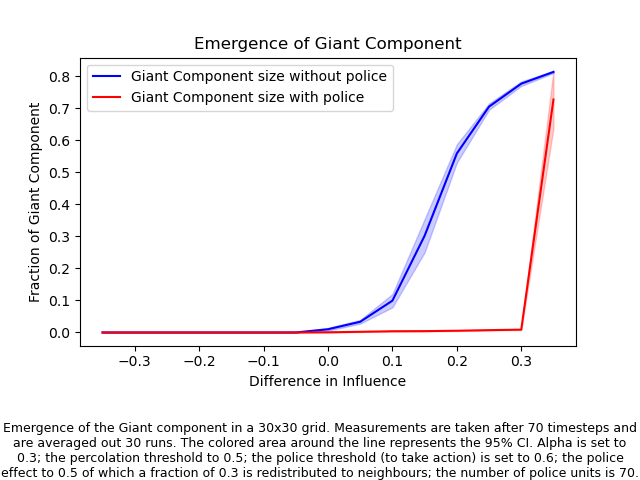
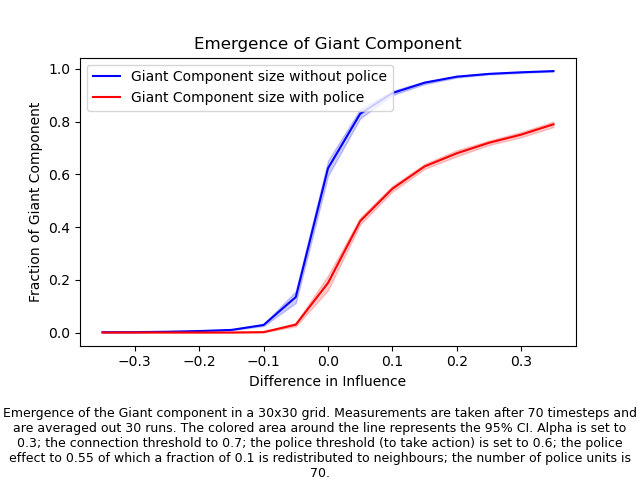
final emergence plots

diff --git a/modules/emergence.py b/modules/emergence.py
@@ -6,7 +6,7 @@ from modules.grid_update import update_grid_nopolice, update_grid_withpolice, gi
 
 
 def simulate_emergence(grid_size=(30, 30), timesteps=70, alpha=0.3, 
-                       percolation_threshold=0.5, police_threshold=0.7, police_effect=0.3, 
+                       connection_threshold=0.5, police_threshold=0.7, police_effect=0.3, 
                        redistribution_frac=0.7, police_units=15, num_simulation=30, title='Emergence', police=True, onlypolice=False, savefig=True): # Function to plot emergence of giant component for different influence differences
     
     beta = 1 - alpha
@@ -25,7 +25,7 @@ def simulate_emergence(grid_size=(30, 30), timesteps=70, alpha=0.3,
                 income = np.random.rand(*grid_size) # Reset the income grid
                 for _ in range(timesteps): # Run the simulation for a long enough time
                     criminality = update_grid_nopolice(criminality, education, income, influence_diff, alpha, beta)
-                giant_fractions.append(giant_component(criminality, percolation_threshold)) # Get the size of the giant component
+                giant_fractions.append(giant_component(criminality, connection_threshold)) # Get the size of the giant component
             all_giant_fractions.append(giant_fractions) # Store the giant component sizes for every influence difference value
 
         all_giant_fractions = np.array(all_giant_fractions)
@@ -52,7 +52,7 @@ def simulate_emergence(grid_size=(30, 30), timesteps=70, alpha=0.3,
                 income = np.random.rand(*grid_size) # Reset the income grid
                 for _ in range(timesteps): # Run the simulation for a long enough time
                     criminality = update_grid_withpolice(criminality, education, income, influence_diff, police_threshold, police_effect, redistribution_frac, police_units, grid_size, alpha, beta)[0]
-                giant_fractions.append(giant_component(criminality, percolation_threshold)) # Get the size of the giant component
+                giant_fractions.append(giant_component(criminality, connection_threshold)) # Get the size of the giant component
             all_giant_fractions.append(giant_fractions) # Store the giant component sizes for every influence difference value
 
         all_giant_fractions = np.array(all_giant_fractions)
@@ -73,10 +73,10 @@ def simulate_emergence(grid_size=(30, 30), timesteps=70, alpha=0.3,
     plt.subplots_adjust(bottom=0.28)
 
     if police:
-        plt.figtext(0.5, 0.01, f'Emergence of the Giant component in a {grid_size[0]}x{grid_size[1]} grid. Measurements are taken after {timesteps} timesteps and are averaged out {num_simulation} runs. The colored area around the line represents the 95% CI. Alpha is set to {alpha}; the percolation threshold to {percolation_threshold}; the police threshold (to take action) is set to {police_threshold}; the police effect to {police_effect} of which a fraction of {redistribution_frac} is redistributed to neighbours; the number of police units is {police_units}.',
+        plt.figtext(0.5, 0.01, f'Emergence of the Giant component in a {grid_size[0]}x{grid_size[1]} grid. Measurements are taken after {timesteps} timesteps and are averaged out {num_simulation} runs. The colored area around the line represents the 95% CI. Alpha is set to {alpha}; the connection threshold to {connection_threshold}; the police threshold (to take action) is set to {police_threshold}; the police effect to {police_effect} of which a fraction of {redistribution_frac} is redistributed to neighbours; the number of police units is {police_units}.',
                     wrap=True, horizontalalignment='center', fontsize=9)
     else:
-        plt.figtext(0.5, 0.01, f'Emergence of the Giant component in a {grid_size[0]}x{grid_size[1]} grid. Measurements are taken after {timesteps} timesteps and are averaged out {num_simulation} runs. The colored area around the line represents the 95% CI. Alpha is set to {alpha}; the percolation threshold to {percolation_threshold}. No police intervention is considered.',
+        plt.figtext(0.5, 0.01, f'Emergence of the Giant component in a {grid_size[0]}x{grid_size[1]} grid. Measurements are taken after {timesteps} timesteps and are averaged out {num_simulation} runs. The colored area around the line represents the 95% CI. Alpha is set to {alpha}; the connection threshold to {connection_threshold}. No police intervention is considered.',
                     wrap=True, horizontalalignment='center', fontsize=9)
                 
     plt.legend()

diff --git a/emergence_different_police_amounts.py b/emergence_different_police_amounts.py
@@ -12,11 +12,11 @@ all_err_withp = []
 alpha = 0.3
 beta = 1 - alpha
 timesteps = 70
-percolation_threshold = 0.5
-police_threshold = 0.7
-police_effect = 0.3 
-redistribution_frac = 0.7
-police_units = [30, 100, 200, 300]
+connection_threshold = 0.7
+police_threshold = 0.6
+police_effect = 0.55
+redistribution_frac = 0.1
+police_units = [70, 200, 400, 600]
 side_size = [30, 50, 70, 90]
 num_simulation = 30
 influence_diff_list = np.linspace(-beta / 2, beta / 2, 15)
@@ -26,7 +26,7 @@ for ind, units in enumerate(police_units):
     onlypolice = False if ind == 0 else True
 
     avg_nop, avg_withp, err_nop, err_withp = simulate_emergence(grid_size=(side_size[ind], side_size[ind]), timesteps=timesteps, alpha=alpha, 
-                       percolation_threshold=percolation_threshold, police_threshold=police_threshold, police_effect=police_effect, 
+                       connection_threshold=connection_threshold, police_threshold=police_threshold, police_effect=police_effect, 
                        redistribution_frac=redistribution_frac, police_units=units, num_simulation=num_simulation, title=f'Emergence_grid_units_{units}', police=True, onlypolice=onlypolice, savefig=False)
     
     if ind == 0:
@@ -50,10 +50,10 @@ for ind in range(len(police_units)):
 
 plt.xlabel('Difference in Influence')
 plt.ylabel('Fraction of Giant Component')
-plt.title('Data Collapse for Different Amounts of Police Units')
+plt.title('Joint Plot for Different Amounts of Police Units')
 plt.legend(handles, labels)
 plt.subplots_adjust(bottom=0.28)
-plt.figtext(0.5, 0.01, f'Emergence of the Giant component in a {side_size[0]}x{side_size[0]} grid (for the blue line). The cases with police are simulated on grids with side lentgh of {police_units} (red lines). Measurements are taken after {timesteps} timesteps and are averaged out {num_simulation} runs. The colored area around the line represents the 95% CI. Alpha is set to {alpha}; the percolation threshold to {percolation_threshold}; the police threshold (to take action) is set to {police_threshold}; the police effect to {police_effect} of which a fraction of {redistribution_frac} is redistributed to neighbours; the number of police units is {police_units}.',
+plt.figtext(0.5, 0.01, f'Emergence of the Giant component in a {side_size[0]}x{side_size[0]} grid (for the blue line). The cases with police are simulated on grids with side lentgh of {police_units} (red lines). Measurements are taken after {timesteps} timesteps and are averaged out {num_simulation} runs. The colored area around the line represents the 95% CI. Alpha is set to {alpha}; the connection threshold to {connection_threshold}; the police threshold (to take action) is set to {police_threshold}; the police effect to {police_effect} of which a fraction of {redistribution_frac} is redistributed to neighbours; the number of police units is {police_units}.',
             wrap=True, horizontalalignment='center', fontsize=9)
 plt.savefig('figs/different_police_amounts_emergence.png')
 plt.show()

diff --git a/emergence_different_grid_sizes.py b/emergence_different_grid_sizes.py
@@ -14,10 +14,10 @@ side_size = [30, 50, 70, 90]
 alpha = 0.3
 beta = 1 - alpha
 timesteps = 70
-percolation_threshold = 0.5
+connection_threshold = 0.7
 police_threshold = 0.6
-police_effect = 0.5
-redistribution_frac = 0.3
+police_effect = 0.55
+redistribution_frac = 0.1
 police_units = 70
 num_simulation = 30
 influence_diff_list = np.linspace(-beta / 2, beta / 2, 15)
@@ -25,7 +25,7 @@ influence_diff_list = np.linspace(-beta / 2, beta / 2, 15)
 for L in side_size: # Plot the emergence curve for different grids of size LxL
 
     avg_nop, avg_withp, err_nop, err_withp = simulate_emergence(grid_size=(L, L), timesteps=timesteps, alpha=alpha, 
-                       percolation_threshold=percolation_threshold, police_threshold=police_threshold, police_effect=police_effect, 
+                       connection_threshold=connection_threshold, police_threshold=police_threshold, police_effect=police_effect, 
                        redistribution_frac=redistribution_frac, police_units=police_units, num_simulation=num_simulation, title=f'Emergence_grid_{L}')
     
     all_y_nop.append(avg_nop)
@@ -47,10 +47,10 @@ for ind in range(len(side_size)):
 
 plt.xlabel('Difference in Influence')
 plt.ylabel('Fraction of Giant Component')
-plt.title('Data Collapse for Different Grid Sizes')
+plt.title('Joint Plot for Different Grid Sizes')
 plt.legend(handles, labels)
 plt.subplots_adjust(bottom=0.28)
-plt.figtext(0.5, 0.01, f'Emergence of the Giant component in different size grids (for reference, the side of each grid is {side_size} going from right to left, for both colors). Measurements are taken after {timesteps} timesteps and are averaged out {num_simulation} runs. The colored area around the line represents the 95% CI. Alpha is set to {alpha}; the percolation threshold to {percolation_threshold}; the police threshold (to take action) is set to {police_threshold}; the police effect to {police_effect} of which a fraction of {redistribution_frac} is redistributed to neighbours; the number of police units is {police_units}.',
+plt.figtext(0.5, 0.01, f'Emergence of the Giant component in different size grids (for reference, the side of each grid is {side_size} going from right to left, for both colors). Measurements are taken after {timesteps} timesteps and are averaged out {num_simulation} runs. The colored area around the line represents the 95% CI. Alpha is set to {alpha}; the connection threshold to {connection_threshold}; the police threshold (to take action) is set to {police_threshold}; the police effect to {police_effect} of which a fraction of {redistribution_frac} is redistributed to neighbours; the number of police units is {police_units}.',
                             wrap=True, horizontalalignment='center', fontsize=9)
 plt.savefig('figs/different_grid_size_emergence.png')
 plt.show()

diff --git a/emergence_different_connection_threshold.py b/emergence_different_connection_threshold.py
@@ -1,0 +1,49 @@
+import numpy as np
+import matplotlib.pyplot as plt
+
+from modules.emergence import simulate_emergence
+
+# For robustness, we analyze the emergence of the giant component for different connection thresholds
+
+# Define parameters common to every grid size and a list of sizes
+all_y_nop = []
+all_err_nop = []
+grid_size = (50, 50)
+alpha = 0.3
+beta = 1 - alpha
+timesteps = 200
+connection_threshold_list = [0.3, 0.5, 0.7, 0.9]
+police_threshold = 0.6
+police_effect = 0.5
+redistribution_frac = 0.3
+police_units = 70
+num_simulation = 30
+influence_diff_list = np.linspace(-beta / 2, beta / 2, 15)
+police = False
+save_fig = False
+onlypolice = False
+
+for connection_threshold in connection_threshold_list: # Plot the emergence curve for different grids of size LxL
+
+    avg_nop, avg_withp, err_nop, err_withp = simulate_emergence(grid_size=grid_size, timesteps=timesteps, alpha=alpha, 
+                       connection_threshold=connection_threshold, police_threshold=police_threshold, police_effect=police_effect, 
+                       redistribution_frac=redistribution_frac, police_units=police_units, num_simulation=num_simulation, title=f'Emergence_perc_thr_{connection_threshold}', police=police, onlypolice=onlypolice, savefig=save_fig)
+    
+    all_y_nop.append(avg_nop)
+    all_err_nop.append(err_nop)
+
+colors = ['b', 'g', 'r', 'c']
+
+for ind, thr in enumerate(connection_threshold_list): 
+    plt.plot(influence_diff_list, all_y_nop[ind], label=f'Connect. thr. = {thr}', color=colors[ind])
+    plt.fill_between(influence_diff_list, all_y_nop[ind] - all_err_nop[ind], all_y_nop[ind] + all_err_nop[ind], color=colors[ind], alpha = 0.2)
+
+plt.xlabel('Difference in Influence')
+plt.ylabel('Fraction of Giant Component')
+plt.title('Emergence of Giant Component for Different Connection Thresholds')
+plt.legend()
+plt.subplots_adjust(bottom=0.28)
+plt.figtext(0.5, 0.01, f'Emergence of the Giant component in a {grid_size[0]}x{grid_size[1]} grid. Measurements are taken after {timesteps} timesteps and are averaged out {num_simulation} runs. The colored area around the line represents the 95% CI. Alpha is set to {alpha}; the police threshold (to take action) is set to {police_threshold}; the police effect to {police_effect} of which a fraction of {redistribution_frac} is redistributed to neighbours; the number of police units is {police_units}.',
+            wrap=True, horizontalalignment='center', fontsize=9)
+plt.savefig('figs/different_connection_thr.png')
+plt.show()

diff --git a/emergence_different_alpha.py b/emergence_different_alpha.py
@@ -1,0 +1,48 @@
+import numpy as np
+import matplotlib.pyplot as plt
+
+from modules.emergence import simulate_emergence
+
+# For robustness, we analyze the emergence of the giant component for different connection thresholds
+
+# Define parameters common to every grid size and a list of sizes
+all_y_nop = []
+all_err_nop = []
+grid_size = (50, 50)
+alpha_list = [0.1, 0.3, 0.5, 0.7, 0.9]
+timesteps = 200
+connection_threshold = 0.7
+police_threshold = 0.6
+police_effect = 0.5
+redistribution_frac = 0.3
+police_units = 70
+num_simulation = 30
+influence_diff_list = np.linspace(-((1 - min(alpha_list))) / 2, (1 - min(alpha_list)) / 2, 15)
+police = False
+save_fig = False
+onlypolice = False
+
+for alpha in alpha_list: # Plot the emergence curve for different grids of size LxL
+
+    avg_nop, avg_withp, err_nop, err_withp = simulate_emergence(grid_size=grid_size, timesteps=timesteps, alpha=alpha, 
+                       connection_threshold=connection_threshold, police_threshold=police_threshold, police_effect=police_effect, 
+                       redistribution_frac=redistribution_frac, police_units=police_units, num_simulation=num_simulation, title=f'Emergence_perc_thr_{connection_threshold}', police=police, onlypolice=onlypolice, savefig=save_fig)
+    
+    all_y_nop.append(avg_nop)
+    all_err_nop.append(err_nop)
+
+colors = ['b', 'g', 'r', 'c', 'm']
+
+for ind, thr in enumerate(alpha_list): 
+    plt.plot(influence_diff_list, all_y_nop[ind], label=f'Alpha = {thr}', color=colors[ind])
+    plt.fill_between(influence_diff_list, all_y_nop[ind] - all_err_nop[ind], all_y_nop[ind] + all_err_nop[ind], color=colors[ind], alpha = 0.2)
+
+plt.xlabel('Difference in Influence')
+plt.ylabel('Fraction of Giant Component')
+plt.title('Emergence of Giant Component for Different Alpha')
+plt.legend()
+plt.subplots_adjust(bottom=0.28)
+plt.figtext(0.5, 0.01, f'Emergence of the Giant component in a {grid_size[0]}x{grid_size[1]} grid. Measurements are taken after {timesteps} timesteps and are averaged out {num_simulation} runs. The colored area around the line represents the 95% CI. The connection threshold to {connection_threshold}; the police threshold (to take action) is set to {police_threshold}; the police effect to {police_effect} of which a fraction of {redistribution_frac} is redistributed to neighbours; the number of police units is {police_units}.',
+                            wrap=True, horizontalalignment='center', fontsize=9)
+plt.savefig('figs/different_alpha.png')
+plt.show()

diff --git a/modules/grid_update.py b/modules/grid_update.py
@@ -13,7 +13,7 @@ def update_grid_nopolice(criminality, education, income, influence_diff, alpha, 
     
     current = criminality[..., np.newaxis]
     
-    more_mask = neighbors > current
+    more_mask = neighbors >= current
     less_mask = neighbors <= current
     sum_more = np.nansum(neighbors * more_mask, axis=2)
     count_more = np.nansum(more_mask, axis=2)
@@ -23,10 +23,21 @@ def update_grid_nopolice(criminality, education, income, influence_diff, alpha, 
     less_infl = np.divide(sum_less, count_less, out=np.zeros_like(sum_less), where=count_less!=0)
     # calculate gamma for each cell avr of income and education
     gamma = (income + education) / 2
-    w_more = beta * np.clip(1 - gamma, 0.1, 0.9) + influence_diff
+    # get the amount of influence from the current cell
+    w_more = (beta * np.clip(1 - gamma, 0.1, 0.9) + influence_diff) 
     w_less = beta/2 - influence_diff
-    new_crim = alpha*criminality + w_more*more_infl + w_less*less_infl
-    
+
+    m = w_more * more_infl
+    # if item in m is 0 then it is current
+    m = np.where(count_more == 0, criminality, m)
+
+    # if l is 0 then is is current
+    l = w_less * less_infl
+
+    # if count of less is 0 then is criminality
+    l = np.where(count_less == 0, criminality, l)
+
+    new_crim = alpha*criminality + m + l
     return np.clip(new_crim, 0, 1)
 
 
@@ -39,8 +50,8 @@ def update_grid_withpolice(criminality, education, income, influence_diff, polic
     
     return new_criminality, mask
 
-def giant_component(criminality, percolation_threshold): # Compute the size of the giant component in the criminality grid (as fraction of the grid size)
-    perc_cells = criminality >= percolation_threshold # Output the grid with True value for cells with criminality above the percolation threshold
+def giant_component(criminality, connection_threshold): # Compute the size of the giant component in the criminality grid (as fraction of the grid size)
+    perc_cells = criminality >= connection_threshold # Output the grid with True value for cells with criminality above the connection threshold
     labeled_crim, num_features = label(perc_cells) # Label the connected components in the grid (every cluster of connected cells gets a unique label)
     components = np.bincount(labeled_crim.ravel()) # Count the number of cells in each connected component
     giant_component = np.max(components[1:]) if len(components) > 1 else 0 # Get the size of the largest connected component

diff --git a/visualize.py b/visualize.py
@@ -17,7 +17,7 @@ income = np.random.rand(*grid_size) # Define the income for every cell (here fix
 alpha = 0.3 # Assign weight for influence of criminality in own neighbourhood
 beta = 1 - alpha # Assign weight for influence of criminality in other neighbourhoods 
 influence_diff = 1 # Assign weight for difference in influence of "bad" neighbourhoods compared to "good" neighbourhoods
-percolation_threshold = 0.5 # Define the percolation threshold to later calculate the giant component
+connection_threshold = 0.5 # Define the connection threshold to later calculate the giant component
 police_threshold = 0.7 # Set the threshold of criminality for police intervention
 police_effect = 0.3 # Decide by how much criminality is reduced in a cell when police acts
 redistribution_frac = 0.7 # Decide how much of the criminality is redistributed to neighbouring cells
